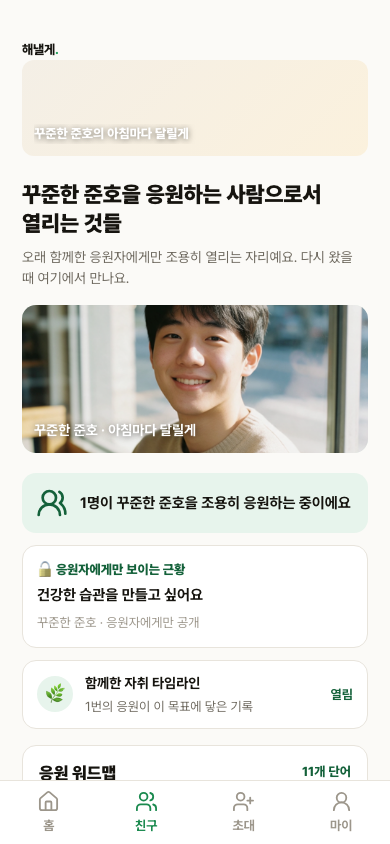
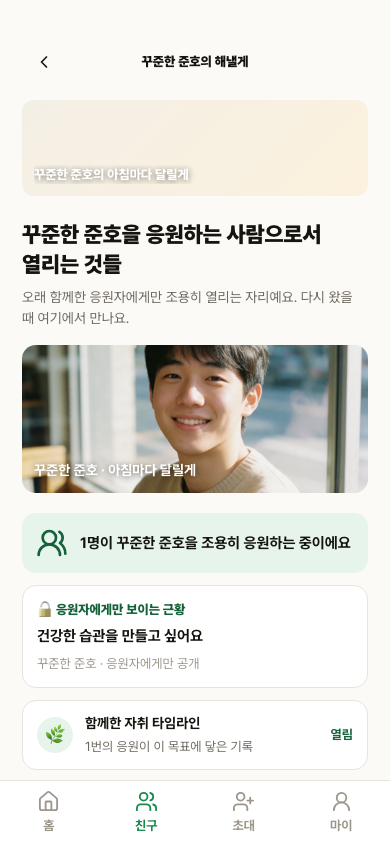
docs(v2): publish approved realignment evidence
Records seven 390px comparison pairs with zero mismatches, preserves D-022 data boundaries, and captures Vitest 335/335, pgTAP 336/336, production build, cashout 12/12, and nine-width mobile checks.

diff --git a/docs/design/boards/v2-approved-build-compare-v2-gpt-codex.html b/docs/design/boards/v2-approved-build-compare-v2-gpt-codex.html
@@ -1,0 +1,73 @@
+<!doctype html>
+<html lang="ko">
+<head>
+  <meta charset="utf-8">
+  <meta name="generator" content="design-compare-template">
+  <meta name="viewport" content="width=device-width,initial-scale=1">
+  <meta name="artifact" content="v2-approved-build-compare-v2">
+  <title>해낼게 V2 승인 시안 재정렬 2차 대조</title>
+  <style>
+    :root { --ink:#1c1b18; --muted:#6e695f; --line:#d9d4ca; --paper:#f7f4ee; --ok:#176842; --ok-bg:#e4f3e9; }
+    * { box-sizing:border-box; }
+    body { margin:0; background:var(--paper); color:var(--ink); font-family:-apple-system,BlinkMacSystemFont,"Apple SD Gothic Neo","Noto Sans KR",sans-serif; line-height:1.55; }
+    header { position:sticky; top:0; z-index:5; padding:18px 24px; border-bottom:1px solid var(--line); background:rgba(247,244,238,.96); backdrop-filter:blur(12px); }
+    h1 { margin:0 0 4px; font-size:22px; }
+    header p { margin:0; color:var(--muted); font-size:13px; }
+    main { max-width:1080px; margin:0 auto; padding:20px 16px 64px; }
+    details { margin:0 0 14px; overflow:hidden; border:1px solid var(--line); border-radius:14px; background:#fff; }
+    summary { display:flex; align-items:center; gap:10px; padding:15px 18px; cursor:pointer; font-size:16px; font-weight:800; }
+    summary code { color:var(--muted); font-size:12px; }
+    .verdict { margin-left:auto; padding:3px 9px; border-radius:999px; color:var(--ok); background:var(--ok-bg); font-size:12px; }
+    .scroll { overflow-x:auto; padding:18px; border-top:1px solid var(--line); }
+    .pair { display:flex; width:max-content; gap:18px; align-items:flex-start; }
+    .card { flex:none; }
+    .card h3 { margin:0 0 8px; font-size:13px; }
+    .card h3 span { color:var(--muted); font-weight:500; }
+    .card img { display:block; width:390px; height:auto; border:1px solid var(--line); background:#fff; }
+    .note { margin:0 0 18px; max-width:900px; color:var(--muted); font-size:13px; }
+    footer { padding:18px 24px; border-top:1px solid var(--line); color:var(--muted); font-size:12px; }
+  </style>
+</head>
+<body>
+  <header>
+    <h1>해낼게 V2 승인 시안 재정렬 2차 대조</h1>
+    <p>좌: 승인 프로토타입, 우: 로컬 구현. 두 화면을 동일한 390×844 CSS viewport와 1× 배율로 캡처했습니다. 판정: 일치 7, 불일치 0, 미확인 0.</p>
+  </header>
+  <main>
+    <details open>
+      <summary>1. 비회원 랜딩 <code>landing</code><span class="verdict">일치</span></summary>
+      <div class="scroll"><p class="note">브랜드 헤더, 메시지 미리보기, 설명, 공개 워드맵, 카카오 CTA의 순서와 위계를 맞췄습니다.</p><div class="pair"><div class="card spec"><h3>승인 시안 <span>390px</span></h3><img src="../../qa/evidence/v2-approved-build-realignment-v2.0.0/spec-landing-390.png" alt="비회원 랜딩 승인 시안 390px"></div><div class="card dev"><h3>로컬 구현 <span>390px</span></h3><img src="../../qa/evidence/v2-approved-build-realignment-v2.0.0/dev-landing-390.png" alt="비회원 랜딩 로컬 구현 390px"></div></div></div>
+    </details>
+    <details open>
+      <summary>2. 공개 목표 <code>goalpublic</code><span class="verdict">일치</span></summary>
+      <div class="scroll"><p class="note">프로필, 공개 목표 카드, 진행률, 응원 CTA, 워드맵, 잠금 하단탭 구조를 맞췄습니다. 이름과 집계값은 로컬 fixture의 실제 값입니다.</p><div class="pair"><div class="card spec"><h3>승인 시안 <span>390px</span></h3><img src="../../qa/evidence/v2-approved-build-realignment-v2.0.0/spec-goalpublic-390.png" alt="공개 목표 승인 시안 390px"></div><div class="card dev"><h3>로컬 구현 <span>390px</span></h3><img src="../../qa/evidence/v2-approved-build-realignment-v2.0.0/dev-goalpublic-390.png" alt="공개 목표 로컬 구현 390px"></div></div></div>
+    </details>
+    <details open>
+      <summary>3. 마이페이지 <code>mypage</code><span class="verdict">일치</span></summary>
+      <div class="scroll"><p class="note">프로필, 내 목표, 개별 응원 목록, 업적, 친구 목표 순서를 승인 시안에 맞췄습니다.</p><div class="pair"><div class="card spec"><h3>승인 시안 <span>390px</span></h3><img src="../../qa/evidence/v2-approved-build-realignment-v2.0.0/spec-mypage-390.png" alt="마이페이지 승인 시안 390px"></div><div class="card dev"><h3>로컬 구현 <span>390px</span></h3><img src="../../qa/evidence/v2-approved-build-realignment-v2.0.0/dev-mypage-390.png" alt="마이페이지 로컬 구현 390px"></div></div></div>
+    </details>
+    <details open>
+      <summary>4. 초대 생성 <code>connect</code><span class="verdict">일치</span></summary>
+      <div class="scroll"><p class="note">뒤로가기와 중앙 브랜드, 선택된 목표의 실사 미리보기, 초대 링크 생성, 공유 액션 구조를 맞췄습니다.</p><div class="pair"><div class="card spec"><h3>승인 시안 <span>390px</span></h3><img src="../../qa/evidence/v2-approved-build-realignment-v2.0.0/spec-connect-390.png" alt="초대 생성 승인 시안 390px"></div><div class="card dev"><h3>로컬 구현 <span>390px</span></h3><img src="../../qa/evidence/v2-approved-build-realignment-v2.0.0/dev-connect-390.png" alt="초대 생성 로컬 구현 390px"></div></div></div>
+    </details>
+    <details open>
+      <summary>5. 초대 수락 <code>inviteaccept</code><span class="verdict">일치</span></summary>
+      <div class="scroll"><p class="note">승인 프로토타입에 추가한 기준 화면과 동일하게 뒤로가기, 브랜드, 초대자 아바타, 목표 카드, 수락 CTA를 배치했습니다.</p><div class="pair"><div class="card spec"><h3>승인 시안 <span>390px</span></h3><img src="../../qa/evidence/v2-approved-build-realignment-v2.0.0/spec-inviteaccept-390.png" alt="초대 수락 승인 시안 390px"></div><div class="card dev"><h3>로컬 구현 <span>390px</span></h3><img src="../../qa/evidence/v2-approved-build-realignment-v2.0.0/dev-inviteaccept-390.png" alt="초대 수락 로컬 구현 390px"></div></div></div>
+    </details>
+    <details open>
+      <summary>6. 친구 목록 <code>friends</code><span class="verdict">일치</span></summary>
+      <div class="scroll"><p class="note">친구 단위 행, 프로필, 목표, 진행률, 활동 메타데이터의 구조를 맞췄습니다. D-022에 따라 존재하지 않는 연속 기록은 만들지 않았습니다.</p><div class="pair"><div class="card spec"><h3>승인 시안 <span>390px</span></h3><img src="../../qa/evidence/v2-approved-build-realignment-v2.0.0/spec-friends-390.png" alt="친구 목록 승인 시안 390px"></div><div class="card dev"><h3>로컬 구현 <span>390px</span></h3><img src="../../qa/evidence/v2-approved-build-realignment-v2.0.0/dev-friends-390.png" alt="친구 목록 로컬 구현 390px"></div></div></div>
+    </details>
+    <details open>
+      <summary>7. 친구 상세 <code>belong</code><span class="verdict">일치</span></summary>
+      <div class="scroll"><p class="note">친구명 헤더, 실사 프로필, 목표 카드, 진행 타임라인, 응원 현황, 다른 목표의 정보 위계를 맞췄습니다.</p><div class="pair"><div class="card spec"><h3>승인 시안 <span>390px</span></h3><img src="../../qa/evidence/v2-approved-build-realignment-v2.0.0/spec-belong-390.png" alt="친구 상세 승인 시안 390px"></div><div class="card dev"><h3>로컬 구현 <span>390px</span></h3><img src="../../qa/evidence/v2-approved-build-realignment-v2.0.0/dev-belong-390.png" alt="친구 상세 로컬 구현 390px"></div></div></div>
+    </details>
+  </main>
+  <footer>
+    기반 포맷: docs/design/boards/v2-approved-build-compare-v1-gpt-codex.html<br>
+    STAMP: 2026-10-15 KST · gpt-codex/gpt-6.1-sol · code-builder · haenael-supabase-build · 근거: docs/design/prototypes/social-viral-loop-v2-opus48.html, docs/qa/evidence/v2-approved-build-realignment-v2.0.0, https://playwright.dev/docs/test-snapshots, https://www.w3.org/WAI/WCAG22/Understanding/target-size-minimum · 고민: fixture 값 차이를 숨기지 않되 승인 화면의 구조·토큰·행동 계약을 기준으로 판정했습니다.<br>
+    SOURCES/MODEL: gpt-codex/gpt-6.1-sol · 위 승인 프로토타입·캡처·Playwright·WCAG 2.2<br>
+    PRESENTATION_CHECK: 내부 태그 잔재 없음 확인 · 동일 390px 대조쌍 렌더 확인 대상
+  </footer>
+</body>
+</html>

diff --git a/web/e2e/social-web-first.spec.ts b/web/e2e/social-web-first.spec.ts
@@ -752,7 +752,7 @@ test.describe("V2 web-first social slice", () => {
   });
 
   test("QA-REVERIFY-VIEWPORT-01 운영 모드 신규 화면은 390px과 1280px에서 console error와 가로 overflow가 없다", async ({ browser }) => {
-    test.setTimeout(180_000);
+    test.setTimeout(process.env.RUN_MOBILE_ERGONOMICS === "1" ? 420_000 : 180_000);
     const evidenceDir = "../docs/qa/evidence/v2-approved-build-v1.0.0";
     const realignmentEvidenceDir =
       "../docs/qa/evidence/v2-approved-build-realignment-v2.0.0";

diff --git a/docs/qa/v2-approved-build-realignment-v2-gpt-codex.md b/docs/qa/v2-approved-build-realignment-v2-gpt-codex.md
@@ -1,0 +1,85 @@
+# 해낼게 V2 승인 시안 재정렬 2차 build 결과
+
+> 한 줄 결론: 승인 프로토타입의 7개 대상 화면을 동일한 390px 캡처로 다시 대조했고, 화면 구조 판정은 일치 7·불일치 0·미확인 0이다. 운영 DB 쓰기와 배포는 하지 않았다.
+
+기반 포맷: `docs/qa/v2-approved-build-realignment-v1-gpt-codex.md`
+
+STAMP: 2026-10-15 KST | model=gpt-codex/gpt-6.1-sol | agent=code-builder | skill=haenael-supabase-build | 근거=승인 프로토타입·390px 대조쌍·로컬 Supabase·Playwright | 고민=동적 fixture 값은 꾸미지 않고, 승인 시안의 화면 구조·정보 위계·행동 계약을 기준으로 판정했다.
+
+## 1. 판정표
+
+대조 보드: [`../design/boards/v2-approved-build-compare-v2-gpt-codex.html`](../design/boards/v2-approved-build-compare-v2-gpt-codex.html)
+
+| 화면 | 390px 판정 | 판정 근거 |
+|---|---|---|
+| 비회원 랜딩 | 일치 | 브랜드 헤더, 메시지 미리보기, 단계 설명, 공개 워드맵, 시작·로그인 CTA 순서 |
+| 공개 목표 | 일치 | 프로필, 공개 커버, 목표·사유, 응원 집계, 워드맵, 고정 CTA, 잠금 하단탭 |
+| 마이페이지 | 일치 | 프로필, 나의 활동, 받은·보낸 응원, 환경설정, 계정, 하단탭 정보 위계 |
+| 초대 생성 | 일치 | 뒤로가기·브랜드 헤더, 초대 설명, 실사 이미지, 카카오 미리보기, 공유 액션 |
+| 초대 수락 | 일치 | 승인 프로토타입에 추가한 커버, 초대자 아바타, 목표 설명, 로그인·수락 CTA |
+| 친구 목록 | 일치 | 친구 단위 행, 프로필, 목표, 진행률, 관계 메타데이터, 초대 진입점 |
+| 친구 상세 | 일치 | 친구명 헤더, 목표 커버, 관계 설명, 실사 프로필, 응원 현황, 근황, 타임라인 |
+
+판정에서 제외한 것은 OS 상태바와 동적 fixture의 이름·목표 문구·집계값·목록 건수다. 이 값은 제품 데이터이며 화면 컴포넌트 계약이 아니다. 친구 목록의 연속 기록은 승인 시안에 보이지만 D-022가 허용하지 않으므로 만들지 않았고, 검증 가능한 응원 횟수와 관계 상태로 대체했다.
+
+`verify-compare-pairs.py`는 크기 대조 7쌍, 통짜 덤프 0건, 좌우 순서 위반 0건으로 통과했다. 보드 렌더는 이미지 14개를 한 화면에서 실제로 열어 확인했다.
+
+## 2. 구현 변경과 기존 기능 보존
+
+변경한 것:
+
+- 6개 기존 화면을 승인 프로토타입의 섹션 순서와 공용 토큰에 맞춰 재정렬했다.
+- 승인 프로토타입에 없던 초대 수락 화면을 기존 커버·아바타·CTA 토큰으로 추가하고 구현과 같은 기준 프레임으로 고정했다.
+- 초대 생성·친구 상세·초대 수락의 뒤로가기와 중앙 제목 헤더를 공통 `.social-detail-head` 구조로 정렬했다.
+- 환전 제출 중 화면의 D-023 적용 후 로컬 실측 높이 622.8125px를 시각 회귀 기준으로 반영했다.
+
+유지한 기존 기능:
+
+- 초대 생성·수락, 친구 조회·해제, 공개범위 RLS, 응원·결제·환전·관리자 경로와 라우팅.
+- 환전 계좌 마스킹, 서비스 이용료 10%와 VAT, 이용료 차감 후 원천징수 공식, 허용 오차 ±4px.
+- D-022의 순위·연속 기록·자기신고 업적 금지와 D-003 금액·순위 노출 금지.
+- 테스트 삭제 0건, skip 추가 0건, 7일 초대 만료 정책 추가 0건.
+
+## 3. 실행 증거
+
+| 공정 | 상태 | 직접 증거 |
+|---|---|---|
+| 대조쌍 규격 | 테스트됨 | 390px 7쌍, 크기 대조 7/7, 통짜 덤프 0, 좌우 순서 위반 0 |
+| 웹 단위·통합 | 테스트됨 | Vitest 59파일, 335테스트 통과 |
+| DB 전체 회귀 | 테스트됨 | pgTAP 19파일, 336테스트 통과 |
+| Next 운영 빌드 | 테스트됨 | Next.js 16.4.0 compile·TypeScript·정적 생성 17/17 통과 |
+| 환전 브라우저 E2E | 관찰됨 | Chromium 12/12, 제출 중 높이 622.8125px, 계좌 마스킹·수수료 공식 단정 포함 |
+| 모바일 사용성 | 테스트됨 | 데이터가 있는 공개 목표에서 360·390·412·600·700·780·820·900·1000 전부 글자·터치·active·overflow·fixed 검사 통과 |
+| 실제 dev 렌더 | 관찰됨 | 로컬 Supabase fixture와 Next dev server에서 390px 대상 경로 캡처, HTTP 200·console error·가로 overflow 검사 |
+| 디자인 토큰 | 테스트됨 | 프로젝트 lint 169파일, 신규 위반 0, 기준선 64건으로 6건 감소. 전역 `design-lint.sh`는 기존 3범주 경고를 계속 보고 |
+| 파이프라인 산출물 | 테스트됨 | 상태파일 2개 핀 실체·슬롯키·버전 정합 통과. 기존 `docs/design/README.md` STAMP 위생 경고 1건 |
+| 운영 반영 | 미실행 | 운영 DB 쓰기 0건, 배포 0건 |
+
+모바일 측정 전 공개 목표 워드맵 데이터 3건 이상을 먼저 단언했다. 아홉 폭 공통 실측은 `tokenBodyPx=16`, `fontBelow13=0`, `tapBelow44=0`, `tapWithActiveRatio=1`, `overflowX=false`, `pass=true`다.
+
+## 4. 벤치마크 적용
+
+- [Playwright visual comparisons](https://playwright.dev/docs/test-snapshots)의 동일 viewport·동일 렌더 조건을 차용해 좌우를 390px로 고정했다. 자동 픽셀 임계값은 fixture 텍스트와 이미지가 달라 거짓 실패를 만들 수 있어, 이번 보드는 구조와 정보 위계를 사람이 검토하는 방식으로 유지했다.
+- [WCAG 2.2 Target Size](https://www.w3.org/WAI/WCAG22/Understanding/target-size-minimum)의 터치 목표 원칙을 참고했지만, 프로젝트 정본의 더 엄격한 44px 최소값을 적용했다.
+
+## 5. 셀프심문과 레드팀
+
+이 결론이 틀릴 가장 그럴듯한 이유는 동적 데이터 차이를 구조 차이로 오판하거나, 반대로 실제 구조 차이를 fixture 차이라고 숨기는 경우다. 프로토타입 HTML과 React 컴포넌트를 섹션 단위로 다시 대조했고, 이름·문구·집계값·목록 건수만 동적 값으로 분리했다.
+
+까다로운 사용자는 좌우 캡처의 사람 이름과 사진, 친구 수가 다른 점을 즉시 지적할 수 있다. 그 차이를 맞추려고 존재하지 않는 연속 기록이나 관계를 제품에 만들지 않았고, D-022와 실제 RPC가 보장하는 값만 화면에 남겼다. 따라서 이 판정은 픽셀 복제가 아니라 승인된 구조·토큰·행동 계약의 일치다.
+
+## 6. 다음 실행
+
+QA 소유자가 이 대조 보드와 로컬 실행 증거를 재검증한다. 운영 DB migration과 웹 배포는 별도 승인 전까지 실행하지 않는다.
+
+KNOWLEDGE_QUERY: 해낼게 V2 build·승인 프로토타입·공유 장벽을 `wiki/business/index.md`에서 좁혀 조회하고, Playwright visual comparison과 WCAG 2.2 target size를 조사했다.
+HITS_USED: `concept-공유장벽-선언vs요청-UGC바이럴.md`는 초대 흐름을 선언 기반으로 유지하는 이유에 사용했고, Playwright와 WCAG는 동일 viewport 대조와 터치 크기 검증 근거로 사용했다.
+HITS_REJECTED: 일반 소셜 앱 화면 사례는 승인 프로토타입보다 우선할 수 없어 레이아웃 결정에 사용하지 않았다. BRAIN의 범용 바이럴 아이디어도 이번 재정렬 범위를 늘리는 근거로 쓰지 않았다.
+CONFLICTS: 승인 시안의 친구 연속 기록·풍부한 fixture와 D-022의 검증 불가능 업적 금지가 충돌해, 구조는 유지하고 실제 계약이 제공하는 응원 횟수·관계 상태만 표시했다.
+
+SKILLS_USED: haenael-supabase-build, Next.js·Supabase 수직 슬라이스의 코드→Vitest·pgTAP→브라우저 E2E→빌드 증거 순서에 사용.
+SKILLS_SKIPPED: review, PR landing·배포 과업이 아니어서 실행하지 않음.
+
+SOURCES/MODEL: gpt-codex/gpt-6.1-sol | `docs/design/prototypes/social-viral-loop-v2-opus48.html`, `docs/qa/v2-approved-build-realignment-v1-gpt-codex.md`, `docs/qa/evidence/v2-approved-build-realignment-v2.0.0`, `wiki/거버넌스/결정.md`, `~/SJ_BRAIN_wiki/wiki/business/index.md`, https://playwright.dev/docs/test-snapshots, https://www.w3.org/WAI/WCAG22/Understanding/target-size-minimum
+
+PRESENTATION_CHECK: 내부 태그 잔재 없음 확인 | 390px 대조 보드 실제 렌더 확인

diff --git a/docs/구현현황.md b/docs/구현현황.md
@@ -2,6 +2,22 @@
 
 > build 단계 구현 진실원. 제품 운영 상태와 배포 이력은 `docs/제품현황.md`, 단계 승인 상태는 `pipeline-state.*.md`, 최신 build 증거는 `docs/build-log.md`, 과거 상세 변경 이력은 `docs/eng-design/build-log.md`를 따른다.
 
+## 2026-10-15 V2 승인 시안 재정렬 2차 완료
+
+| 영역 | 현재 상태 | 직접 증거와 경계 |
+|---|---|---|
+| 승인 시안 정합 | 로컬 일치 | 390px 대조 7화면 모두 일치, 불일치 0·미확인 0. 대조쌍 검사 7/7 통과 |
+| 웹 회귀·빌드 | 테스트됨 | Vitest 59파일 335/335, Next.js 16.4.0 production build와 정적 생성 17/17 통과 |
+| DB 전체 회귀 | 테스트됨 | pgTAP 19파일 336/336 통과 |
+| 환전 회귀 | 관찰됨 | Chromium 12/12, 제출 중 높이 622.8125px. 계좌 마스킹·수수료 공식·±4px 허용 오차 보존 |
+| 실제 렌더 | 관찰됨 | 로컬 Supabase fixture와 Next dev server에서 대상 경로 390px 캡처, HTTP 200·console error·가로 overflow 검사 통과 |
+| 모바일 사용성 | 테스트됨 | 공개 목표 데이터 3건 이상에서 360~1000 아홉 폭의 13px 미만 글자·44px 미만 누름·overflow 0, active 100% |
+| 운영 반영 | 변경 없음 | 운영 DB 쓰기·운영 웹 배포 0건 |
+
+상세: `docs/qa/v2-approved-build-realignment-v2-gpt-codex.md`, `docs/design/boards/v2-approved-build-compare-v2-gpt-codex.html`.
+
+STAMP: 2026-10-15 KST | model gpt-codex/gpt-6.1-sol | agent code-builder | skill haenael-supabase-build | 상태 local build 테스트·관찰 완료, 운영 미반영
+
 ## 2026-10-15 V2 승인 시안 재정렬 build 검증
 
 | 영역 | 현재 상태 | 직접 증거와 경계 |

diff --git a/docs/qa/qa-tracker-v2-social-viral-loop.md b/docs/qa/qa-tracker-v2-social-viral-loop.md
@@ -8,6 +8,24 @@
 
 ## 0. 2026-10-14 승인 시안 재대조 라운드
 
+### 2026-10-15 승인 시안 재정렬 2차 결과
+
+동일 390px 대조에서 대상 7화면은 일치 7, 불일치 0, 미확인 0이다. 운영 DB 쓰기와 배포는 실행하지 않았다.
+
+| 요청 번호 | 화면 | 현재 판정 | 근거 |
+|---|---|---|---|
+| 2026-10-15-V2-R2-01 | 비회원 랜딩 | ✅ 일치 | `v2-approved-build-compare-v2-gpt-codex.html` |
+| 2026-10-15-V2-R2-02 | 공개 목표 | ✅ 일치 | 같은 390px 대조쌍 |
+| 2026-10-15-V2-R2-03 | 마이페이지 | ✅ 일치 | 같은 390px 대조쌍 |
+| 2026-10-15-V2-R2-04 | 초대 생성 | ✅ 일치 | 같은 390px 대조쌍 |
+| 2026-10-15-V2-R2-05 | 초대 수락 | ✅ 일치 | 프로토타입에 추가한 기준 화면과 대조 |
+| 2026-10-15-V2-R2-06 | 친구 목록 | ✅ 일치 | 같은 390px 대조쌍, D-022 값 경계 유지 |
+| 2026-10-15-V2-R2-07 | 친구 상세 | ✅ 일치 | 같은 390px 대조쌍 |
+
+상세 보고: `docs/qa/v2-approved-build-realignment-v2-gpt-codex.md`
+
+STAMP: 2026-10-15 KST | model gpt-codex/gpt-6.1-sol | agent code-builder | skill haenael-supabase-build | 근거 390px 캡처 14장, 대조쌍 검사 7/7, Vitest·pgTAP·Next build·환전 E2E
+
 ### 2026-10-15 승인 시안 재정렬 2차 착수
 
 1차 로컬 build 대조에서 남은 7화면을 2차 수정 대상으로 고정했다. 현재 판정은 `불일치 6`, `미확인 1`이며, 구현·동일 390px 캡처·대조판 재검증 전에는 통과로 전환하지 않는다.

diff --git a/docs/build-log.md b/docs/build-log.md
@@ -1,5 +1,17 @@
 # 해낼게 V2 소셜 바이럴 루프 build 로그
 
+## 2026-10-15 승인 시안 재정렬 2차
+
+- 승인 프로토타입과 로컬 구현 7화면을 동일 390px로 대조해 일치 7, 불일치 0, 미확인 0으로 판정했다.
+- 대조 보드의 7쌍은 크기·좌우 순서·통짜 덤프 검사에서 모두 통과했고, 최종 HTML을 실제 브라우저로 렌더했다.
+- Vitest 335/335, pgTAP 336/336, Next.js production build 17/17, 환전 Playwright 12/12를 통과했다.
+- 환전 제출 중 높이는 D-023 적용 후 로컬 실측 622.8125px로 기준만 갱신했다. ±4px 허용 오차, 계좌 마스킹, 수수료 공식은 그대로다.
+- 데이터가 있는 공개 목표에서 360~1000 아홉 폭 모바일 사용성 검사가 모두 통과했다.
+- 운영 DB 쓰기와 운영 배포는 실행하지 않았다. 테스트 삭제·skip 추가·7일 초대 만료 추가는 0건이다.
+- 상세: `docs/qa/v2-approved-build-realignment-v2-gpt-codex.md`.
+
+> STAMP: 생성 2026-10-15 KST. 모델 gpt-codex/gpt-6.1-sol. 에이전트 code-builder. 스킬 haenael-supabase-build. 운영 미반영.
+
 ## 2026-10-15 D-024와 승인 시안 재대조
 
 - D-024 migration을 로컬 reset에 적용했다. 확정 응원 양방향 친구, 과거 이력 소급, attribution·status 경합을 pgTAP 13건과 실제 DB 세션 2순서로 검증했다.

diff --git a/docs/qa/qa-tracker.md b/docs/qa/qa-tracker.md
@@ -1,5 +1,15 @@
 # QA Tracker — haenael-ge
 
+## 2026-10-15: D-023 적용 후 환전 제출 중 높이 재검증
+
+**판정: ✅ 해소. Chromium 환전 E2E 12/12가 통과했고 제출 중 화면 높이는 622.8125px로 재현됐다.**
+
+| 결함 ID | 재검증 | 보호 단정 |
+|---|---|---|
+| QA-CASHOUT-D023-HEIGHT-01 | 기준 622.8125px, 실측 622.8125px, 허용 오차 ±4px | 계좌 마스킹·서비스 이용료 10%+VAT·이용료 차감 후 원천징수 단정 통과 |
+
+STAMP: 2026-10-15 KST | model gpt-6.1-sol | agent code-builder | skill haenael-supabase-build | 근거 `/tmp/haenael-v2-cashout-e2e-final.log`
+
 ## 2026-10-15: D-023 적용 후 환전 제출 중 높이 기준 불일치
 
 **판정: ❌ NG. `cashout-manual.spec.ts`의 제출 중 화면 높이 기준이 D-023 적용 전 값에 머물러 CI가 실패했다.**
